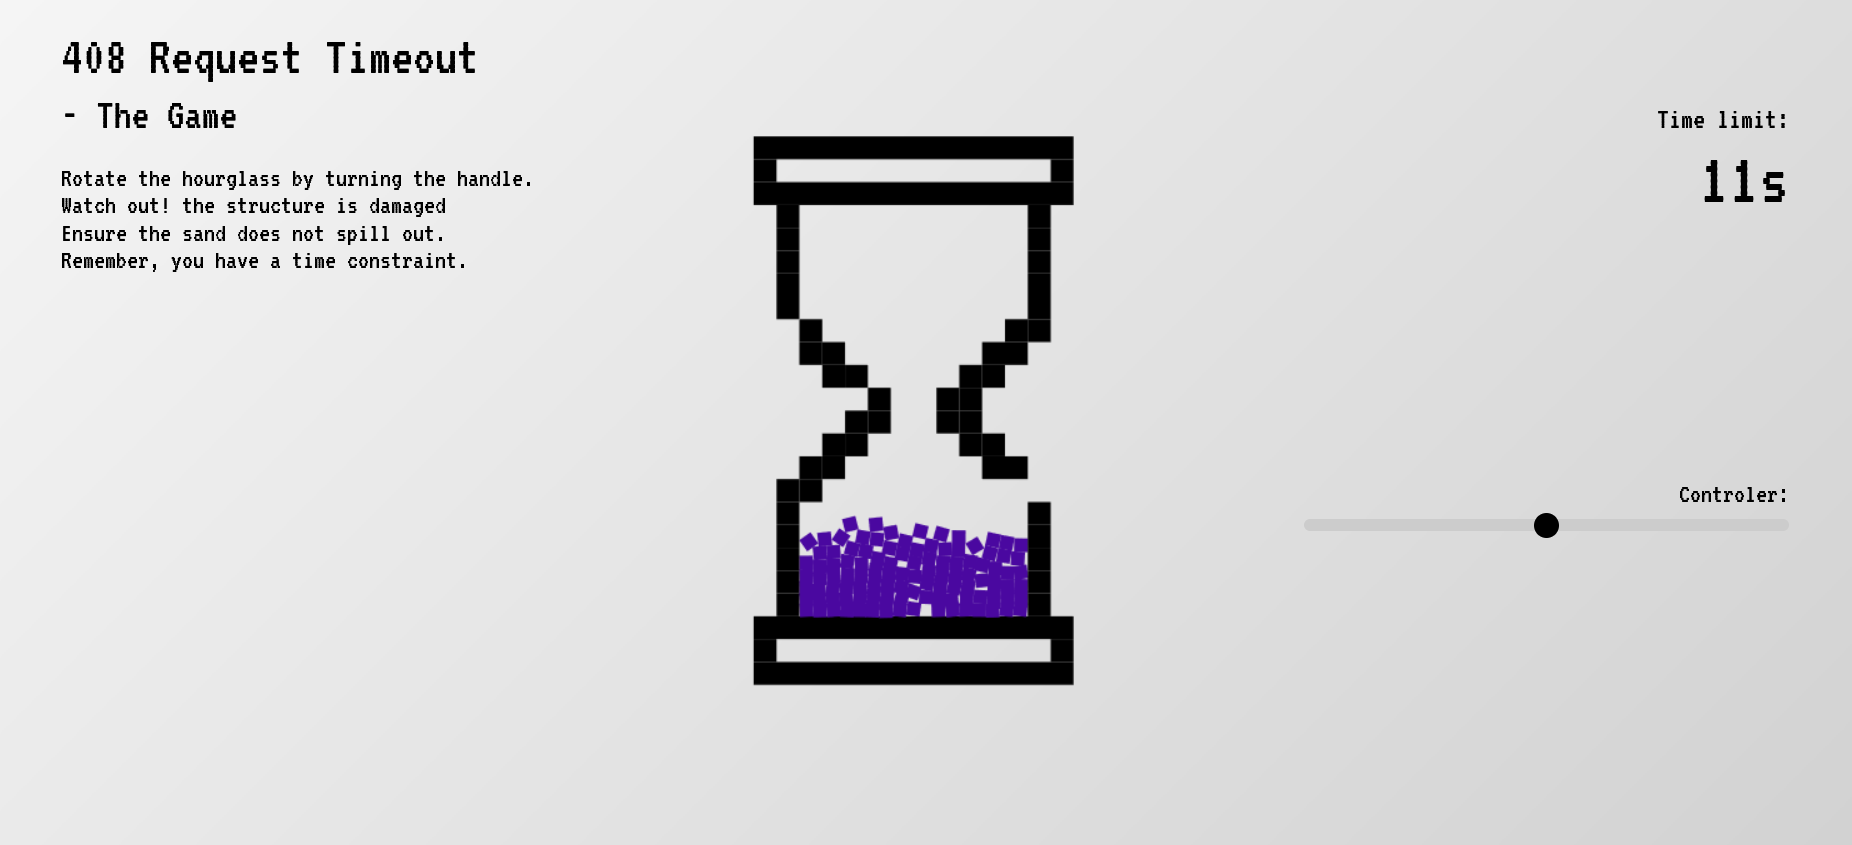
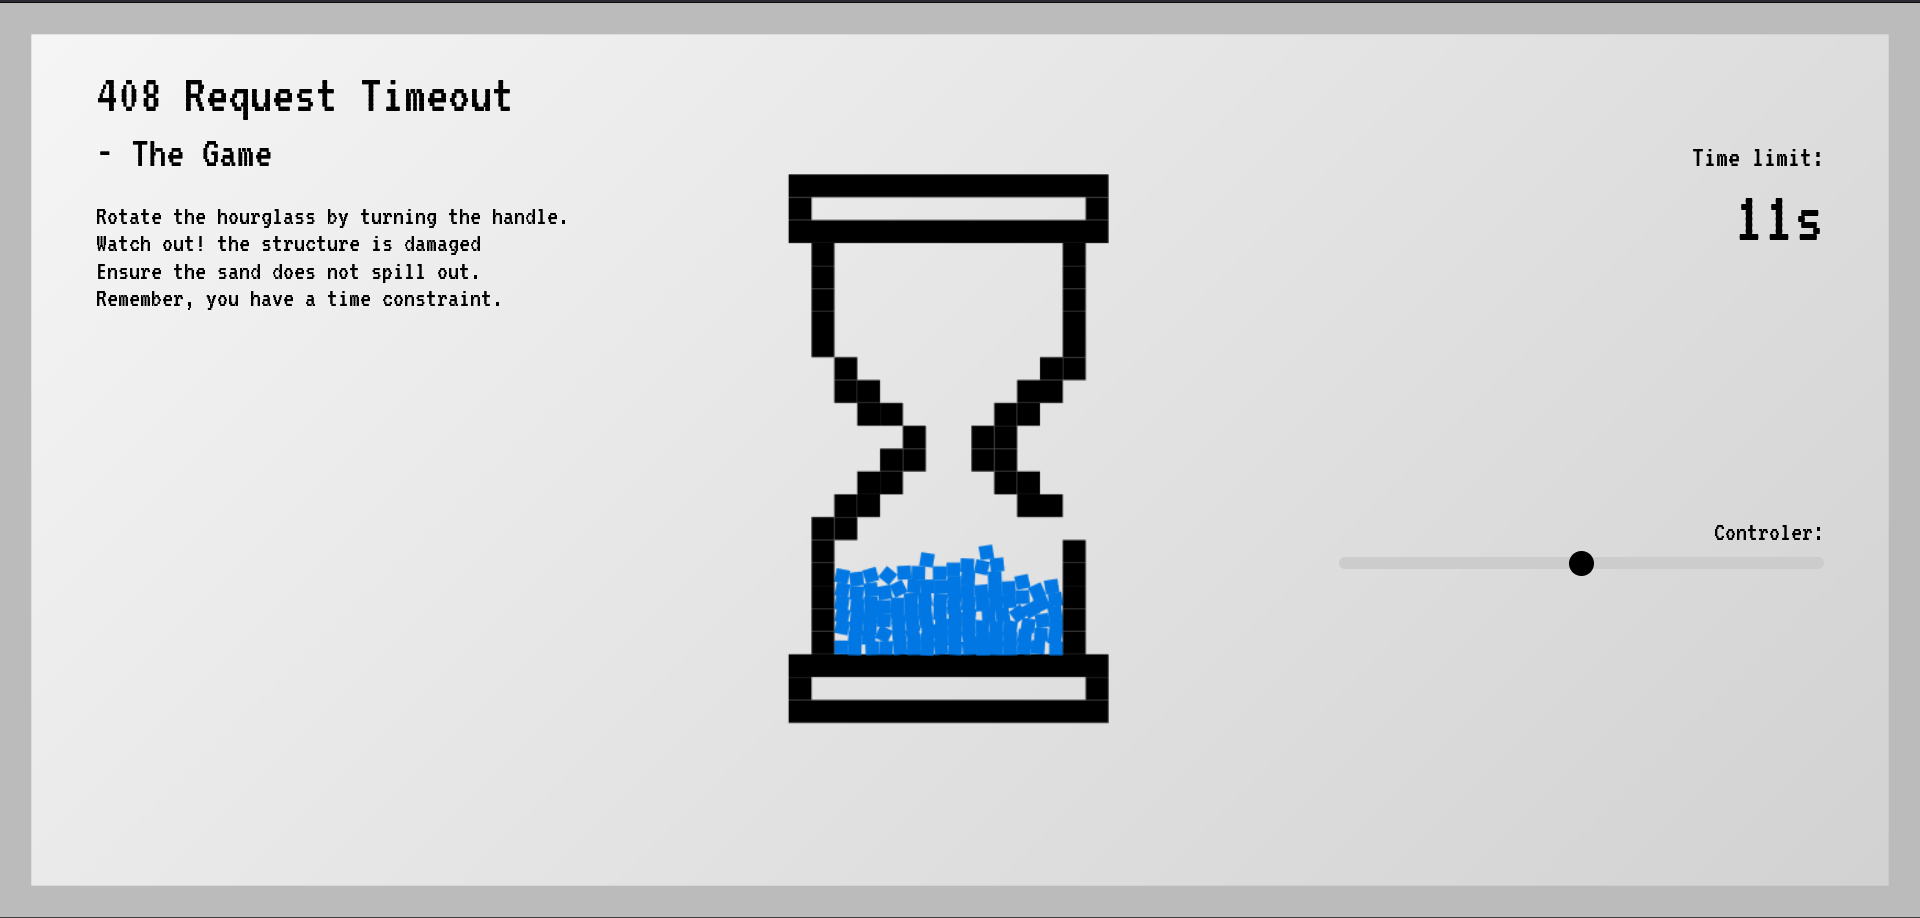
update readme, script and style

diff --git a/style.css b/style.css
@@ -70,10 +70,10 @@ body .range-slider__range::-webkit-slider-thumb {
   transition: background 0.15s ease-in-out;
 }
 body .range-slider__range::-webkit-slider-thumb:hover {
-  background: #4a08a0;
+  background: #0077E3;
 }
 body .range-slider__range:active::-webkit-slider-thumb {
-  background: #4a08a0;
+  background: #0077E3;
 }
 body .range-slider__range::-moz-range-thumb {
   width: 20px;
@@ -86,7 +86,7 @@ body .range-slider__range::-moz-range-thumb {
   transition: background 0.15s ease-in-out;
 }
 body .range-slider__range::-moz-range-thumb:hover {
-  background: #4a08a0;
+  background: #0077E3;
 }
 body h1 {
   font-weight: 400;
@@ -136,12 +136,12 @@ body button {
   text-transform: uppercase;
   cursor: pointer;
   font-size: 30px;
-  background-color: #4a08a0;
+  background-color: #0077E3;
   transition: all cubic-bezier(0.19, 1, 0.22, 1) 0.3s;
   color: #fff;
 }
 body button:hover, body button:focus {
-  background-color: #34066f;
+  background-color: #0077E3;
 }
 
 @media screen and (max-width: 990px) {

diff --git a/script.js b/script.js
@@ -8,7 +8,7 @@ new Vue({
     inGame: false,
     timeLimit: 11,
     timer: null,
-    sandColor: '#4a08a0',
+    sandColor: '#0077E3',
     boundsColor: '#BBBBBB',
     message: 'TIME OUT!',
     points: 0,
